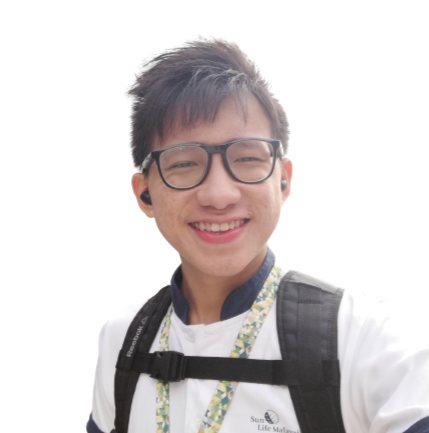
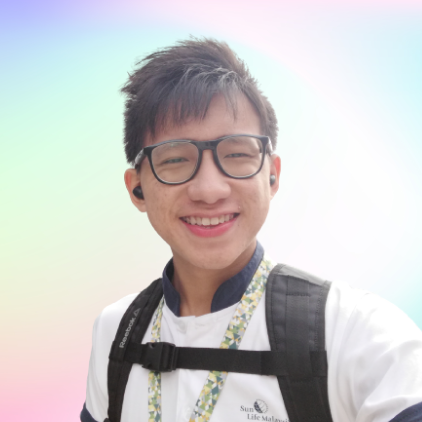
about page

diff --git a/pages/about.vue b/pages/about.vue
@@ -6,9 +6,17 @@ const { data, pending } = useLazyAsyncData("github", () => $fetch<Github>("/api/
 </script>
 
 <template>
-  <section class="mt-12 w-full">
-    <h1 class="font-bold text-7xl font-space">About</h1>
-    <img :src="Avatar" alt="" />
+  <section class="mt-12 w-full flex flex-col items-center">
+    <h1 class="font-bold text-7xl text-center font-space">Zernonia</h1>
+    <h2 class="mt-4 text-4xl text-center">
+      Frontend Developer <br />
+      Based in Malaysia
+    </h2>
+    <div class="mt-12 flex">
+      <div></div>
+      <img :src="Avatar" alt="Zernonia" class="rounded-4xl" />
+      <div></div>
+    </div>
     {{ data }}
     {{ pending }}
   </section>
